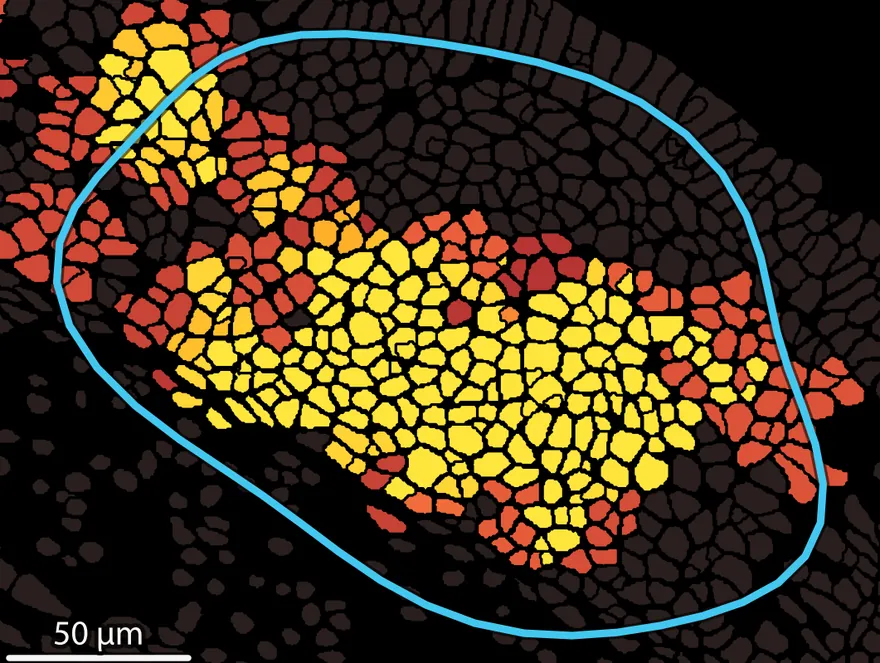
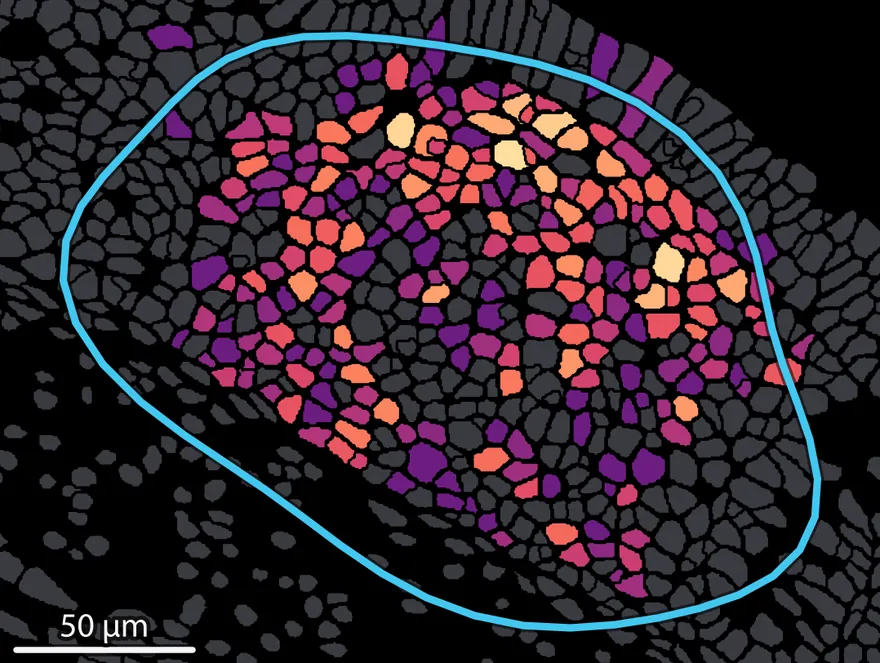
Show Fig. 2d's new session in the assistant's example
The example under the MCP tools now follows Fig. 2d: the question about the
selected structure, the finding of the agent's own analysis ("a cryptopatch or
early isolated lymphoid follicle"), and the figure's map of Il22ra2, the gene
it ranked first, under the selection outline. It replaces the Expression
Hotspots run on Cd79a. The picture's crop bands are re-centred on the new
map's coloured cells.

diff --git a/assets/css/home.css b/assets/css/home.css
@@ -1490,6 +1490,7 @@ html:not(.js) .wk__panel[hidden] { display: grid !important; margin-top: 14px; }
   .ex__card { gap: 16px; }
   .ex__example { padding: 14px; gap: 12px; }
   .ex__quote p { font-size: 1.125rem; }
+  .ex__ex-find { font-size: 0.875rem; }
 }
 /* the ring beside the assistant's heading and the four groups under both, wherever the
    groups beside the ring would be too narrow for Steer's Off / Ask / Allow switch: phones,
@@ -1542,6 +1543,9 @@ html:not(.js) .wk__panel[hidden] { display: grid !important; margin-top: 14px; }
   text-wrap: balance;
 }
 .ex__ex-note { font-size: 0.8125rem; line-height: 1.45; color: var(--pv-text-2); }
+/* the agent's closing sentence, after its own label, as Fig. 2d prints it */
+.ex__ex-find { padding-top: 9px; border-top: 1px solid var(--pv-line); font-size: 0.9375rem; line-height: 1.4; color: var(--pv-text); }
+.ex__ex-find b { margin-right: 0.3em; font-weight: 600; color: var(--pv-accent); }
 .ex__ex-pic { display: grid; gap: 7px; min-width: 0; }
 .ex__ex-media { position: relative; overflow: hidden; border-radius: 10px; background: #000; aspect-ratio: 880 / 663; }
 .ex__ex-media img { position: absolute; inset: 0; width: 100%; height: 100%; object-fit: cover; }
@@ -1552,7 +1556,7 @@ html:not(.js) .wk__panel[hidden] { display: grid !important; margin-top: 14px; }
 }
 @media (max-width: 559.98px) {
   .ex__ex-media { aspect-ratio: auto; height: clamp(108px, 30vw, 136px); }
-  .ex__ex-media img { object-position: 50% 58%; }
+  .ex__ex-media img { object-position: 50% 44%; }
 }
 /* Two columns: the deck's columns end together. The example's picture is at least 2.05 : 1
    (the ::before holds that height) and grows into whatever the other column leaves, so
@@ -1562,7 +1566,7 @@ html:not(.js) .wk__panel[hidden] { display: grid !important; margin-top: 14px; }
   .ex__ex-pic { grid-template-rows: minmax(0, 1fr) auto; }
   .ex__ex-media { aspect-ratio: auto; }
   .ex__ex-media::before { content: ""; display: block; padding-top: calc(100% / 2.05); }
-  .ex__ex-media img { object-position: 50% 56%; }
+  .ex__ex-media img { object-position: 50% 36%; }
 }
 
 /* ═══════════════════════════ 4 · How to cite ════════════════════════════

diff --git a/index.html b/index.html
@@ -469,12 +469,13 @@ fdr        <span class="tk-t">bool</span>    <span class="tk-n">true</span></cod
           <figure class="ex__example">
             <div class="ex__ex-text">
               <figcaption class="pv-label">Example</figcaption>
-              <blockquote class="ex__quote"><p>“…count how many of the selected cells are in a significant hotspot…”</p></blockquote>
+              <blockquote class="ex__quote"><p>“What is the structure I selected, and which cell types and genes set it apart…”</p></blockquote>
               <p class="ex__ex-note">Your selection travels with every message.</p>
+              <p class="ex__ex-find"><b>Finding</b> “your selection is a cryptopatch or early isolated lymphoid follicle…”</p>
             </div>
             <div class="ex__ex-pic">
-              <div class="ex__ex-media"><img src="assets/media/ai-result.webp" width="880" height="663" loading="lazy" decoding="async" alt="One field of the colon section, each cell filled by the Getis-Ord Gi* value of Cd79a that the agent’s Expression Hotspots call returned, warm where the gene clusters, under the cyan outline of the selected cells"></div>
-              <p class="ex__ex-cap">Expression Hotspots</p>
+              <div class="ex__ex-media"><img src="assets/media/ai-result.webp" width="880" height="663" loading="lazy" decoding="async" alt="One field of the colon section, each cell filled by its count of Il22ra2, the gene the agent ranked first, brighter where the count is higher and grey where the gene is not detected, under the cyan outline of the selected cells"></div>
+              <p class="ex__ex-cap">Own analysis · top gene <i translate="no">Il22ra2</i></p>
             </div>
           </figure>
           <p class="ex__caveat">Answers are model output; the notebook shows what ran.</p>
